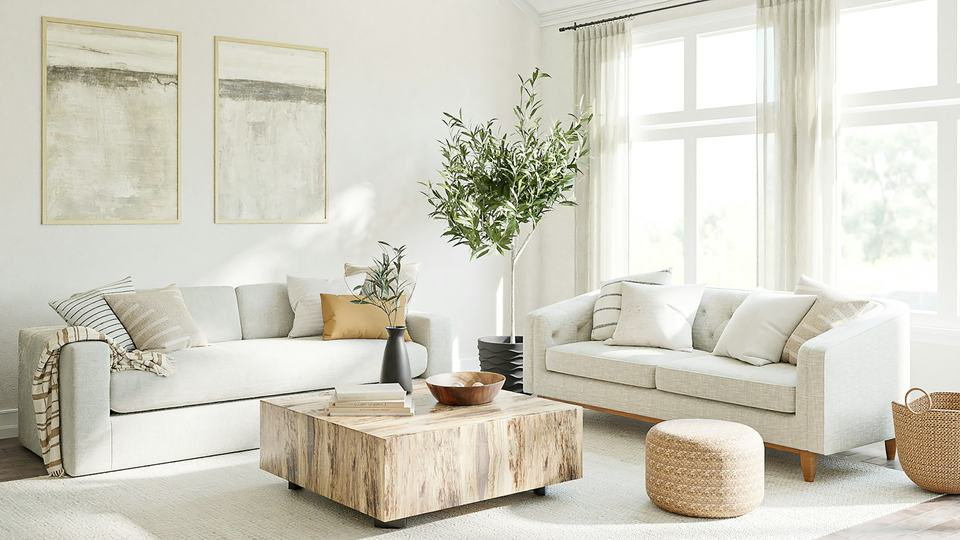
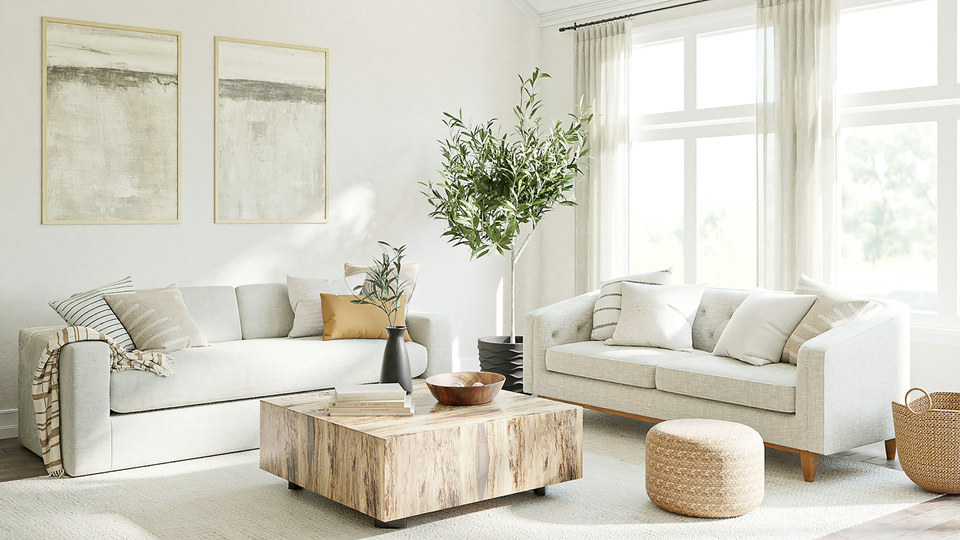
Real photographs behind the About, FAQ and Contact page heads; hero back to full quality
- About: bedroom (SPL Interiors1, Wikimedia Commons, CC BY 4.0), 1280px original.
- FAQ: bathroom (CoolShutters, Flickr, CC BY 2.0), 2048px.
- Contact: white kitchen (Rawpixel, CC0), 1300px, the largest available
  without an account.
- Homepage hero restored to the untouched 1920px file; phone variant re-cut
  from it at quality 88.
- One .photo-band rule driven by --page-photo / --page-photo-sm set inline on
  each section, root-relative so the URL is the same in CSS and the preload.
- bump-version.sh stamps preload hints again, since they now match.
- Credits added to the image-sources page.

Changed region(s): [[0.4375, 0.1778, 0.625, 0.4741], [0.9375, 0.7111, 1.0, 0.8889], [0.3438, 0.5333, 0.4062, 0.563]]

diff --git a/image-credits.html b/image-credits.html
@@ -8,7 +8,7 @@
 <link rel="preload" as="style" href="https://fonts.googleapis.com/css2?family=Playfair+Display:wght@500;600;700&family=Inter:wght@400;500;600;650;700&display=swap">
 <link rel="stylesheet" href="https://fonts.googleapis.com/css2?family=Playfair+Display:wght@500;600;700&family=Inter:wght@400;500;600;650;700&display=swap" media="print" onload="this.media='all'">
 <noscript><link rel="stylesheet" href="https://fonts.googleapis.com/css2?family=Playfair+Display:wght@500;600;700&family=Inter:wght@400;500;600;650;700&display=swap"></noscript>
-<link rel="stylesheet" href="css/style.css?v=f0404421">
+<link rel="stylesheet" href="css/style.css?v=4c246a13">
 <title>The Aly Touch — Image sources</title>
 <meta name="description" content="Sources and licences for The Aly Touch service imagery.">
 <link rel="icon" href="favicon.svg" type="image/svg+xml">
@@ -50,6 +50,7 @@
 <main id="main"><section class="section"><div class="wrap" style="max-width:850px"><h1>Image sources</h1><p>Service photographs illustrate the type of work. They are not photographs of The Aly Touch’s completed customer jobs. The before-and-after comparisons combine AI-generated illustrations and edited licensed stock images.</p>
 <h2>Aly’s portrait and comparison illustrations</h2><p>Aly’s portrait was edited from a family-supplied photo to show her grey uniform with blue lettering. The kitchen, bathroom and skirting-board comparisons and the clean fridge/cupboard split illustration were generated with OpenAI image tools in September 2026. The kitchen comparison uses a raised view showing the worktop around the sink. The kitchen, bathroom and skirting before images were edited to show more visible removable surface build-up while preserving the clean reference composition.</p>
 <h2>Limescale photograph</h2><p><a href="https://commons.wikimedia.org/wiki/File:Hard_Water_Calcification.jpg">Hard Water Calcification</a> by <a href="https://commons.wikimedia.org/wiki/User:Bbypnda">Bbypnda</a>, with colour correction by Veikk0.ma, is used under <a href="https://creativecommons.org/licenses/by-sa/3.0/">CC BY-SA 3.0</a>. Our resized JPEG versions are available under the same licence. The displayed image is cropped to fit the service card. This photograph illustrates mineral build-up, not a completed Aly Touch job.</p>
+<h2>Page backgrounds</h2><p>The photographs behind the page headings on the About, FAQ and Contact pages are real homes, used under free licences. They are not The Aly Touch’s customers’ homes.</p><ul><li>About: <a href="https://commons.wikimedia.org/wiki/File:Balanced_Modern_Bedroom_Design_with_Neutral_Tones_and_Layered_Lighting.jpg">Balanced Modern Bedroom Design</a> by SPL Interiors1, via Wikimedia Commons, <a href="https://creativecommons.org/licenses/by/4.0/">CC BY 4.0</a>.</li><li>FAQ: <a href="https://www.flickr.com/photos/140136599@N05/38035438481">minimal clean bright bathroom</a> by CoolShutters, via Flickr, <a href="https://creativecommons.org/licenses/by/2.0/">CC BY 2.0</a>.</li><li>Contact: <a href="https://www.rawpixel.com/image/6042749/photo-image-public-domain-minimal-house">Modern white kitchen interior</a>, via Rawpixel, <a href="https://creativecommons.org/publicdomain/zero/1.0/">CC0</a> (public domain).</li></ul>
 <h2>Licensed stock photography</h2><p>The following photographs are used under the <a href="https://www.pexels.com/license/">Pexels licence</a>, which permits commercial use and modification. Their inclusion does not imply endorsement by the photographers or people shown.</p><ul>
 <li>Holiday lets: <a href="https://www.pexels.com/photo/hotel-bed-with-towels-14334049/">Augustinus Martinus Noppé — guest bed with towels</a>.</li>
 

diff --git a/css/style.css b/css/style.css
@@ -293,31 +293,7 @@ p:last-child { margin-bottom: 0; }
    dark ink text keeps full WCAG contrast and the page stays beige-led. */
 .hero {
   position: relative;
-  background-image:
-    linear-gradient(100deg,
-      rgba(255,250,242,.97) 0%,
-      rgba(255,250,242,.94) 34%,
-      rgba(255,250,242,.72) 56%,
-      rgba(244,234,223,.42) 76%,
-      rgba(244,234,223,.28) 100%),
-    url("../img/hero.jpg");
-  background-size: cover, cover;
-  background-position: center, center 42%;
-  background-repeat: no-repeat, no-repeat;
   border-bottom: 1px solid var(--line-soft);
-}
-/* Phones get a half-size hero photo: same crop, a quarter of the bytes. */
-@media (max-width: 820px) {
-  .hero {
-    background-image:
-      linear-gradient(100deg,
-        rgba(255,250,242,.97) 0%,
-        rgba(255,250,242,.94) 34%,
-        rgba(255,250,242,.72) 56%,
-        rgba(244,234,223,.42) 76%,
-        rgba(244,234,223,.28) 100%),
-      url("../img/hero-960.jpg");
-  }
 }
 .hero__inner {
   display: grid;
@@ -1016,6 +992,35 @@ p:last-child { margin-bottom: 0; }
 }
 .portrait__caption strong { display: block; color: var(--navy); font-family: var(--display); font-size: 1.16rem; }
 .portrait__caption span { font-size: .88rem; color: var(--ink-soft); }
+
+/* ---------------------------------------------------------- photo bands --
+   A page head with a real photograph behind the ivory wash. The page sets
+   --page-photo (desktop) and --page-photo-sm (phones) in a style attribute
+   so bump-version.sh stamps the URL and the matching <link rel="preload">
+   the same way. Text stays on the near-solid ivory side of the gradient. */
+.photo-band {
+  background-image:
+    linear-gradient(100deg,
+      rgba(255,250,242,.97) 0%,
+      rgba(255,250,242,.94) 34%,
+      rgba(255,250,242,.72) 56%,
+      rgba(244,234,223,.42) 76%,
+      rgba(244,234,223,.28) 100%),
+    var(--page-photo);
+  background-size: cover, cover;
+  background-position: center, var(--page-photo-pos, center 45%);
+  background-repeat: no-repeat, no-repeat;
+}
+@media (max-width: 820px) {
+  .photo-band { background-image:
+    linear-gradient(100deg,
+      rgba(255,250,242,.97) 0%,
+      rgba(255,250,242,.94) 34%,
+      rgba(255,250,242,.72) 56%,
+      rgba(244,234,223,.42) 76%,
+      rgba(244,234,223,.28) 100%),
+    var(--page-photo-sm, var(--page-photo)); }
+}
 
 /* ------------------------------------------------------ next steps ------ */
 

diff --git a/index.html b/index.html
@@ -8,9 +8,9 @@
 <link rel="preload" as="style" href="https://fonts.googleapis.com/css2?family=Playfair+Display:wght@500;600;700&family=Inter:wght@400;500;600;650;700&display=swap">
 <link rel="stylesheet" href="https://fonts.googleapis.com/css2?family=Playfair+Display:wght@500;600;700&family=Inter:wght@400;500;600;650;700&display=swap" media="print" onload="this.media='all'">
 <noscript><link rel="stylesheet" href="https://fonts.googleapis.com/css2?family=Playfair+Display:wght@500;600;700&family=Inter:wght@400;500;600;650;700&display=swap"></noscript>
-<link rel="preload" as="image" href="img/hero-960.jpg" media="(max-width: 820px)" fetchpriority="high">
-<link rel="preload" as="image" href="img/hero.jpg" media="(min-width: 820.02px)" fetchpriority="high">
-<link rel="stylesheet" href="css/style.css?v=f0404421">
+<link rel="preload" as="image" href="img/hero-960.jpg?v=244a4765" media="(max-width: 820px)" fetchpriority="high">
+<link rel="preload" as="image" href="img/hero.jpg?v=63eee563" media="(min-width: 820.02px)" fetchpriority="high">
+<link rel="stylesheet" href="css/style.css?v=4c246a13">
 <title>The Aly Touch — Home cleaning in Guernsey</title>
 <meta name="description" content="Home cleaning in Guernsey — rooms, bathrooms, bed making and presentation, ovens, fridges and windows, plus deep cleans, end of tenancy, after builders and holiday changeovers.">
 <link rel="icon" href="favicon.svg" type="image/svg+xml">
@@ -63,7 +63,7 @@
 </header>
 
 <main id="main">
-<section class="hero" id="hero">
+<section class="hero photo-band" id="hero" style="--page-photo:url(/img/hero.jpg?v=63eee563);--page-photo-sm:url(/img/hero-960.jpg?v=244a4765);--page-photo-pos:center 42%">
   <div class="wrap hero__inner">
     <div class="hero__copy">
       <span class="eyebrow">Home cleaning in <span data-site="area">Guernsey</span></span>

diff --git a/contact.html b/contact.html
@@ -8,7 +8,9 @@
 <link rel="preload" as="style" href="https://fonts.googleapis.com/css2?family=Playfair+Display:wght@500;600;700&family=Inter:wght@400;500;600;650;700&display=swap">
 <link rel="stylesheet" href="https://fonts.googleapis.com/css2?family=Playfair+Display:wght@500;600;700&family=Inter:wght@400;500;600;650;700&display=swap" media="print" onload="this.media='all'">
 <noscript><link rel="stylesheet" href="https://fonts.googleapis.com/css2?family=Playfair+Display:wght@500;600;700&family=Inter:wght@400;500;600;650;700&display=swap"></noscript>
-<link rel="stylesheet" href="css/style.css?v=f0404421">
+<link rel="preload" as="image" href="img/page-contact-960.jpg?v=1fe17996" media="(max-width: 820px)" fetchpriority="high">
+<link rel="preload" as="image" href="img/page-contact.jpg?v=67c2c9fb" media="(min-width: 820.02px)" fetchpriority="high">
+<link rel="stylesheet" href="css/style.css?v=4c246a13">
 <title>The Aly Touch — Get a cleaning quote in Guernsey</title>
 <meta name="description" content="Contact The Aly Touch for cleaning in Guernsey: everyday room care, ovens, fridges, windows, limescale, and one-off jobs including deep cleans and end of tenancy.">
 <link rel="icon" href="favicon.svg" type="image/svg+xml">
@@ -48,7 +50,7 @@
 </header>
 
 <main id="main">
-<section class="section section--tight section--wash">
+<section class="section section--tight section--wash photo-band" style="--page-photo:url(/img/page-contact.jpg?v=67c2c9fb);--page-photo-sm:url(/img/page-contact-960.jpg?v=1fe17996);--page-photo-pos:center 45%">
   <div class="wrap">
     <div class="page-head">
       <div class="section-head">

diff --git a/faq.html b/faq.html
@@ -8,7 +8,9 @@
 <link rel="preload" as="style" href="https://fonts.googleapis.com/css2?family=Playfair+Display:wght@500;600;700&family=Inter:wght@400;500;600;650;700&display=swap">
 <link rel="stylesheet" href="https://fonts.googleapis.com/css2?family=Playfair+Display:wght@500;600;700&family=Inter:wght@400;500;600;650;700&display=swap" media="print" onload="this.media='all'">
 <noscript><link rel="stylesheet" href="https://fonts.googleapis.com/css2?family=Playfair+Display:wght@500;600;700&family=Inter:wght@400;500;600;650;700&display=swap"></noscript>
-<link rel="stylesheet" href="css/style.css?v=f0404421">
+<link rel="preload" as="image" href="img/page-faq-960.jpg?v=14328481" media="(max-width: 820px)" fetchpriority="high">
+<link rel="preload" as="image" href="img/page-faq.jpg?v=9d5d5f73" media="(min-width: 820.02px)" fetchpriority="high">
+<link rel="stylesheet" href="css/style.css?v=4c246a13">
 <title>The Aly Touch — Questions and answers</title>
 <meta name="description" content="Answers to the questions people ask The Aly Touch before booking: how it works, what it costs, what is included, and how visits are arranged in Guernsey.">
 <link rel="icon" href="favicon.svg" type="image/svg+xml">
@@ -200,7 +202,7 @@
 </header>
 
 <main id="main">
-<section class="section section--tight section--wash">
+<section class="section section--tight section--wash photo-band" style="--page-photo:url(/img/page-faq.jpg?v=9d5d5f73);--page-photo-sm:url(/img/page-faq-960.jpg?v=14328481);--page-photo-pos:center 40%">
   <div class="wrap">
     <div class="section-head">
       <span class="eyebrow">Questions &amp; answers</span>

diff --git a/about.html b/about.html
@@ -8,7 +8,9 @@
 <link rel="preload" as="style" href="https://fonts.googleapis.com/css2?family=Playfair+Display:wght@500;600;700&family=Inter:wght@400;500;600;650;700&display=swap">
 <link rel="stylesheet" href="https://fonts.googleapis.com/css2?family=Playfair+Display:wght@500;600;700&family=Inter:wght@400;500;600;650;700&display=swap" media="print" onload="this.media='all'">
 <noscript><link rel="stylesheet" href="https://fonts.googleapis.com/css2?family=Playfair+Display:wght@500;600;700&family=Inter:wght@400;500;600;650;700&display=swap"></noscript>
-<link rel="stylesheet" href="css/style.css?v=f0404421">
+<link rel="preload" as="image" href="img/page-about-960.jpg?v=e378a641" media="(max-width: 820px)" fetchpriority="high">
+<link rel="preload" as="image" href="img/page-about.jpg?v=9054b165" media="(min-width: 820.02px)" fetchpriority="high">
+<link rel="stylesheet" href="css/style.css?v=4c246a13">
 <title>The Aly Touch — About the cleaner behind it</title>
 <meta name="description" content="About The Aly Touch — a small local cleaning service covering floors, bathrooms, bed making, ovens, skirtings and hoovering.">
 <link rel="icon" href="favicon.svg" type="image/svg+xml">
@@ -48,7 +50,7 @@
 </header>
 
 <main id="main">
-<section class="section section--tight section--wash">
+<section class="section section--tight section--wash photo-band" style="--page-photo:url(/img/page-about.jpg?v=9054b165);--page-photo-sm:url(/img/page-about-960.jpg?v=e378a641);--page-photo-pos:center 55%">
   <div class="wrap">
     <div class="page-head">
       <div class="section-head">
